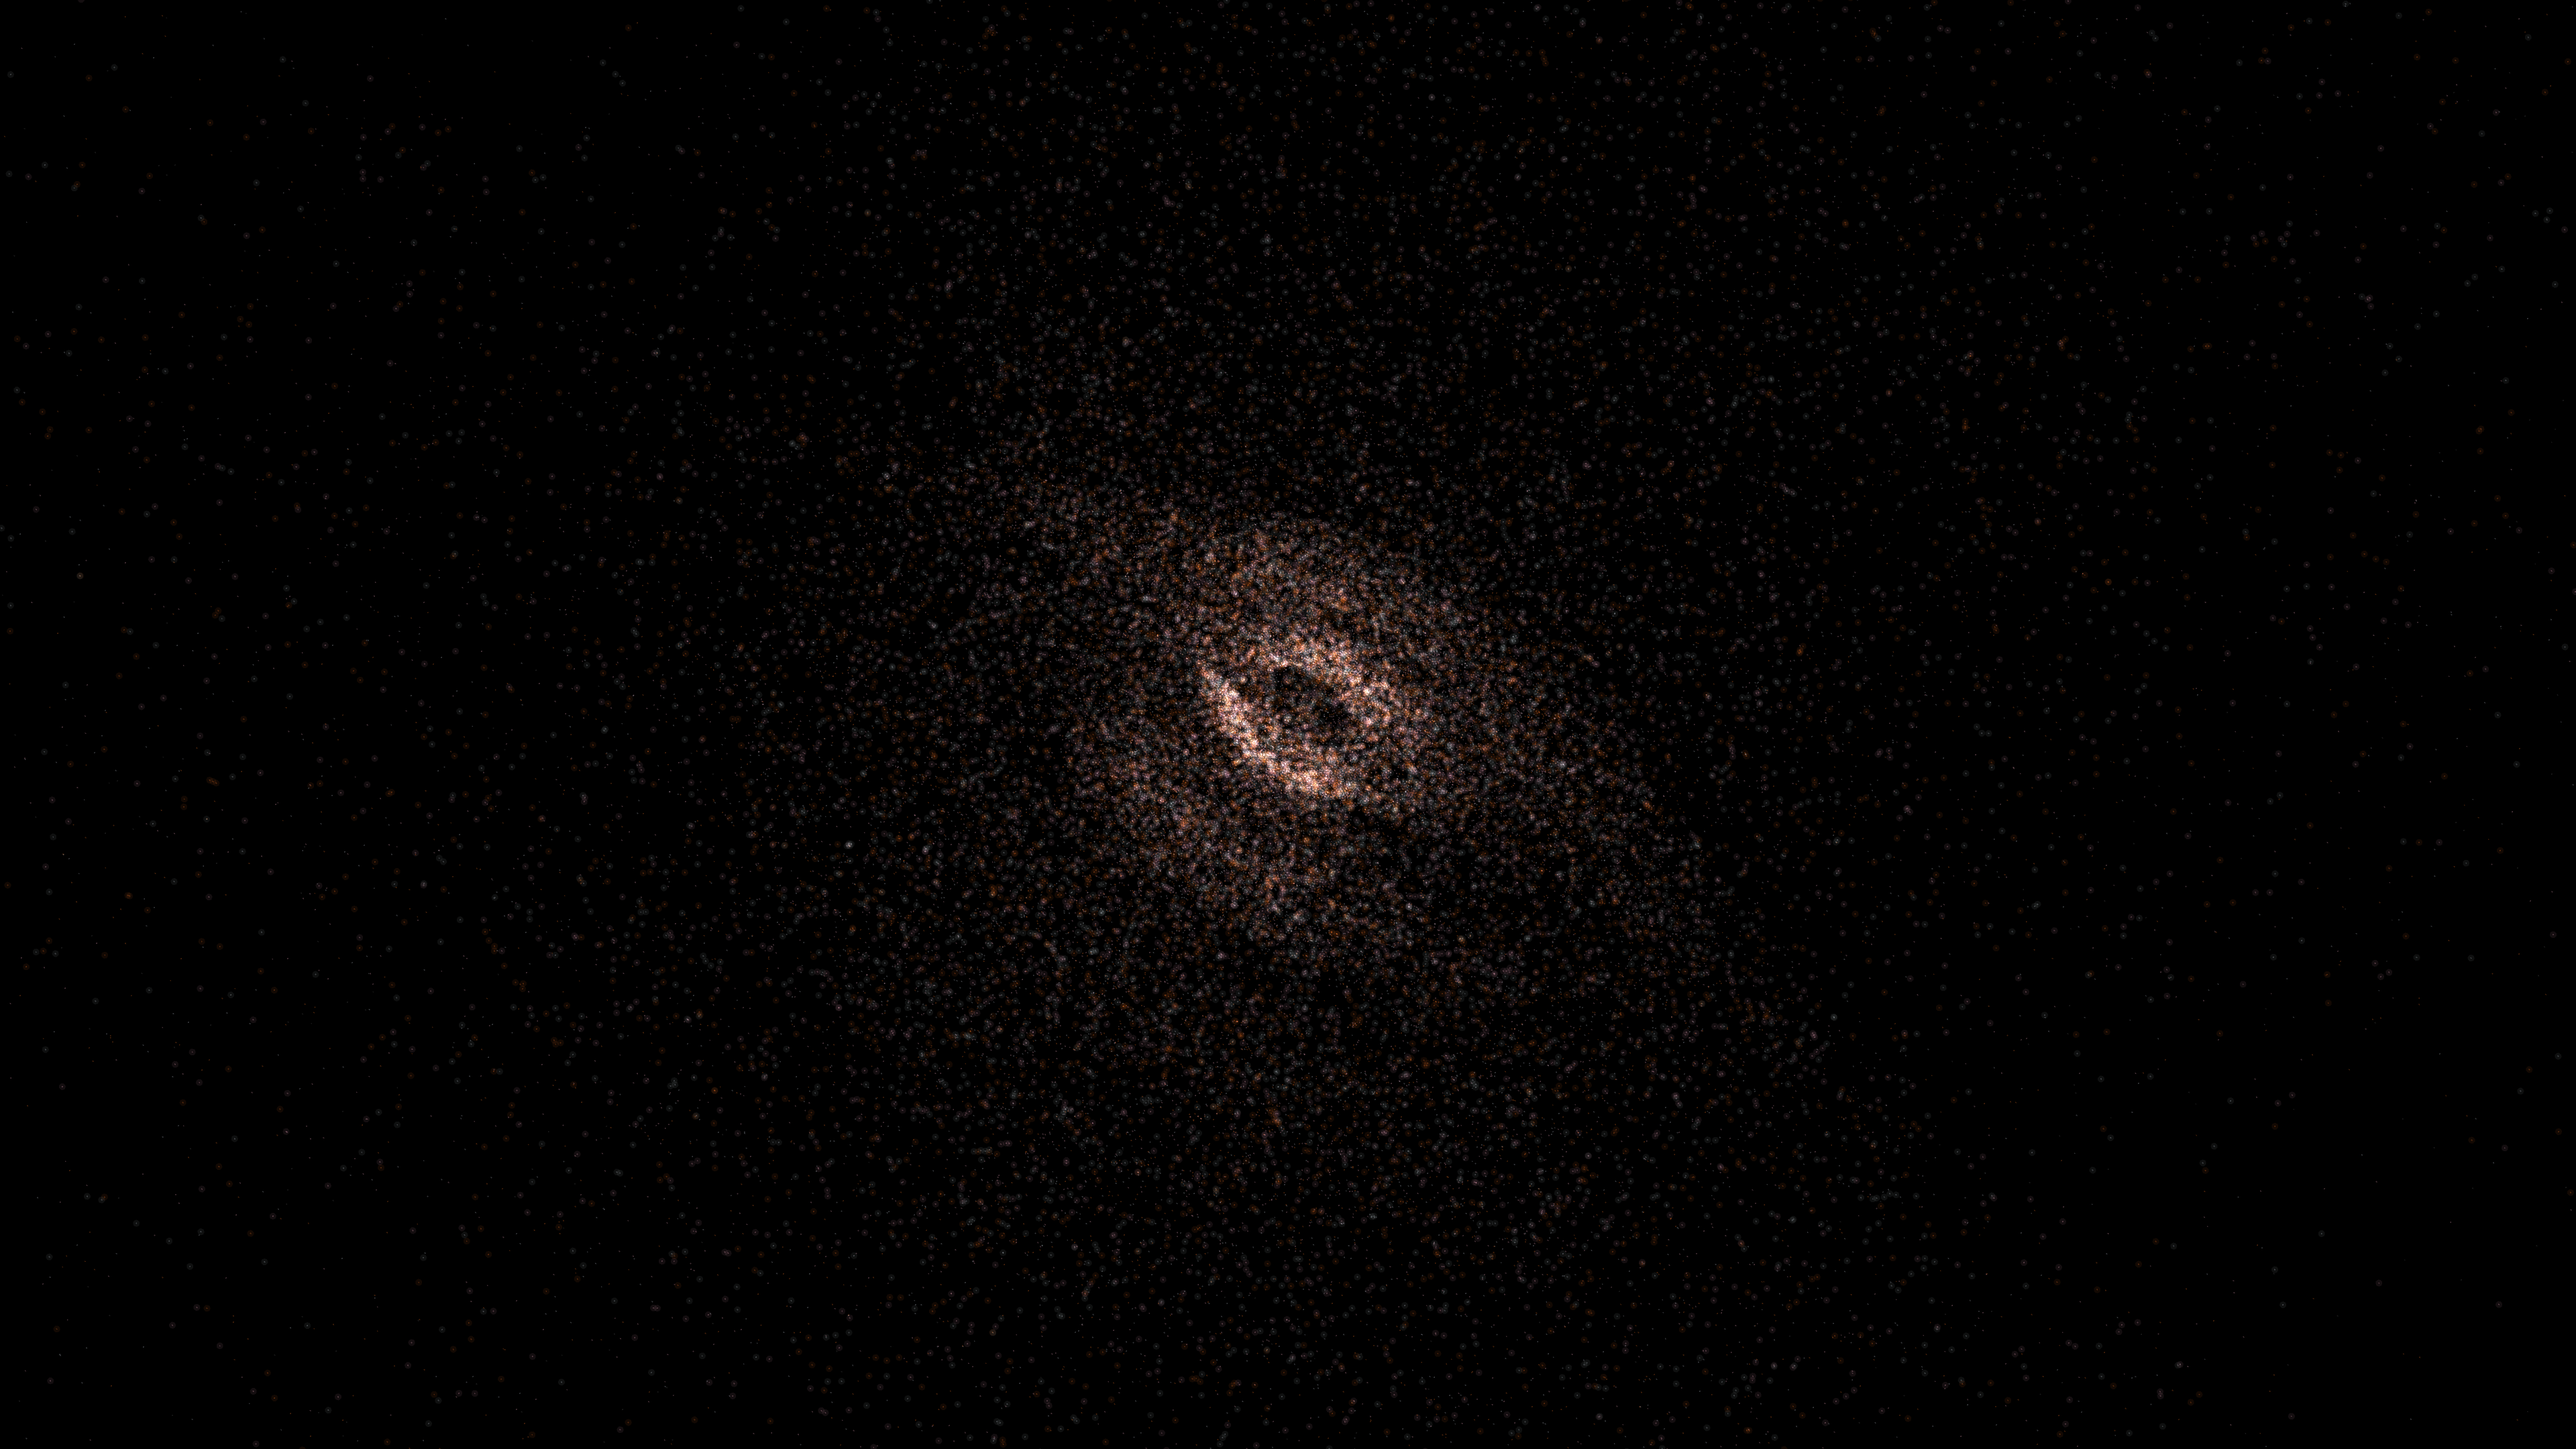
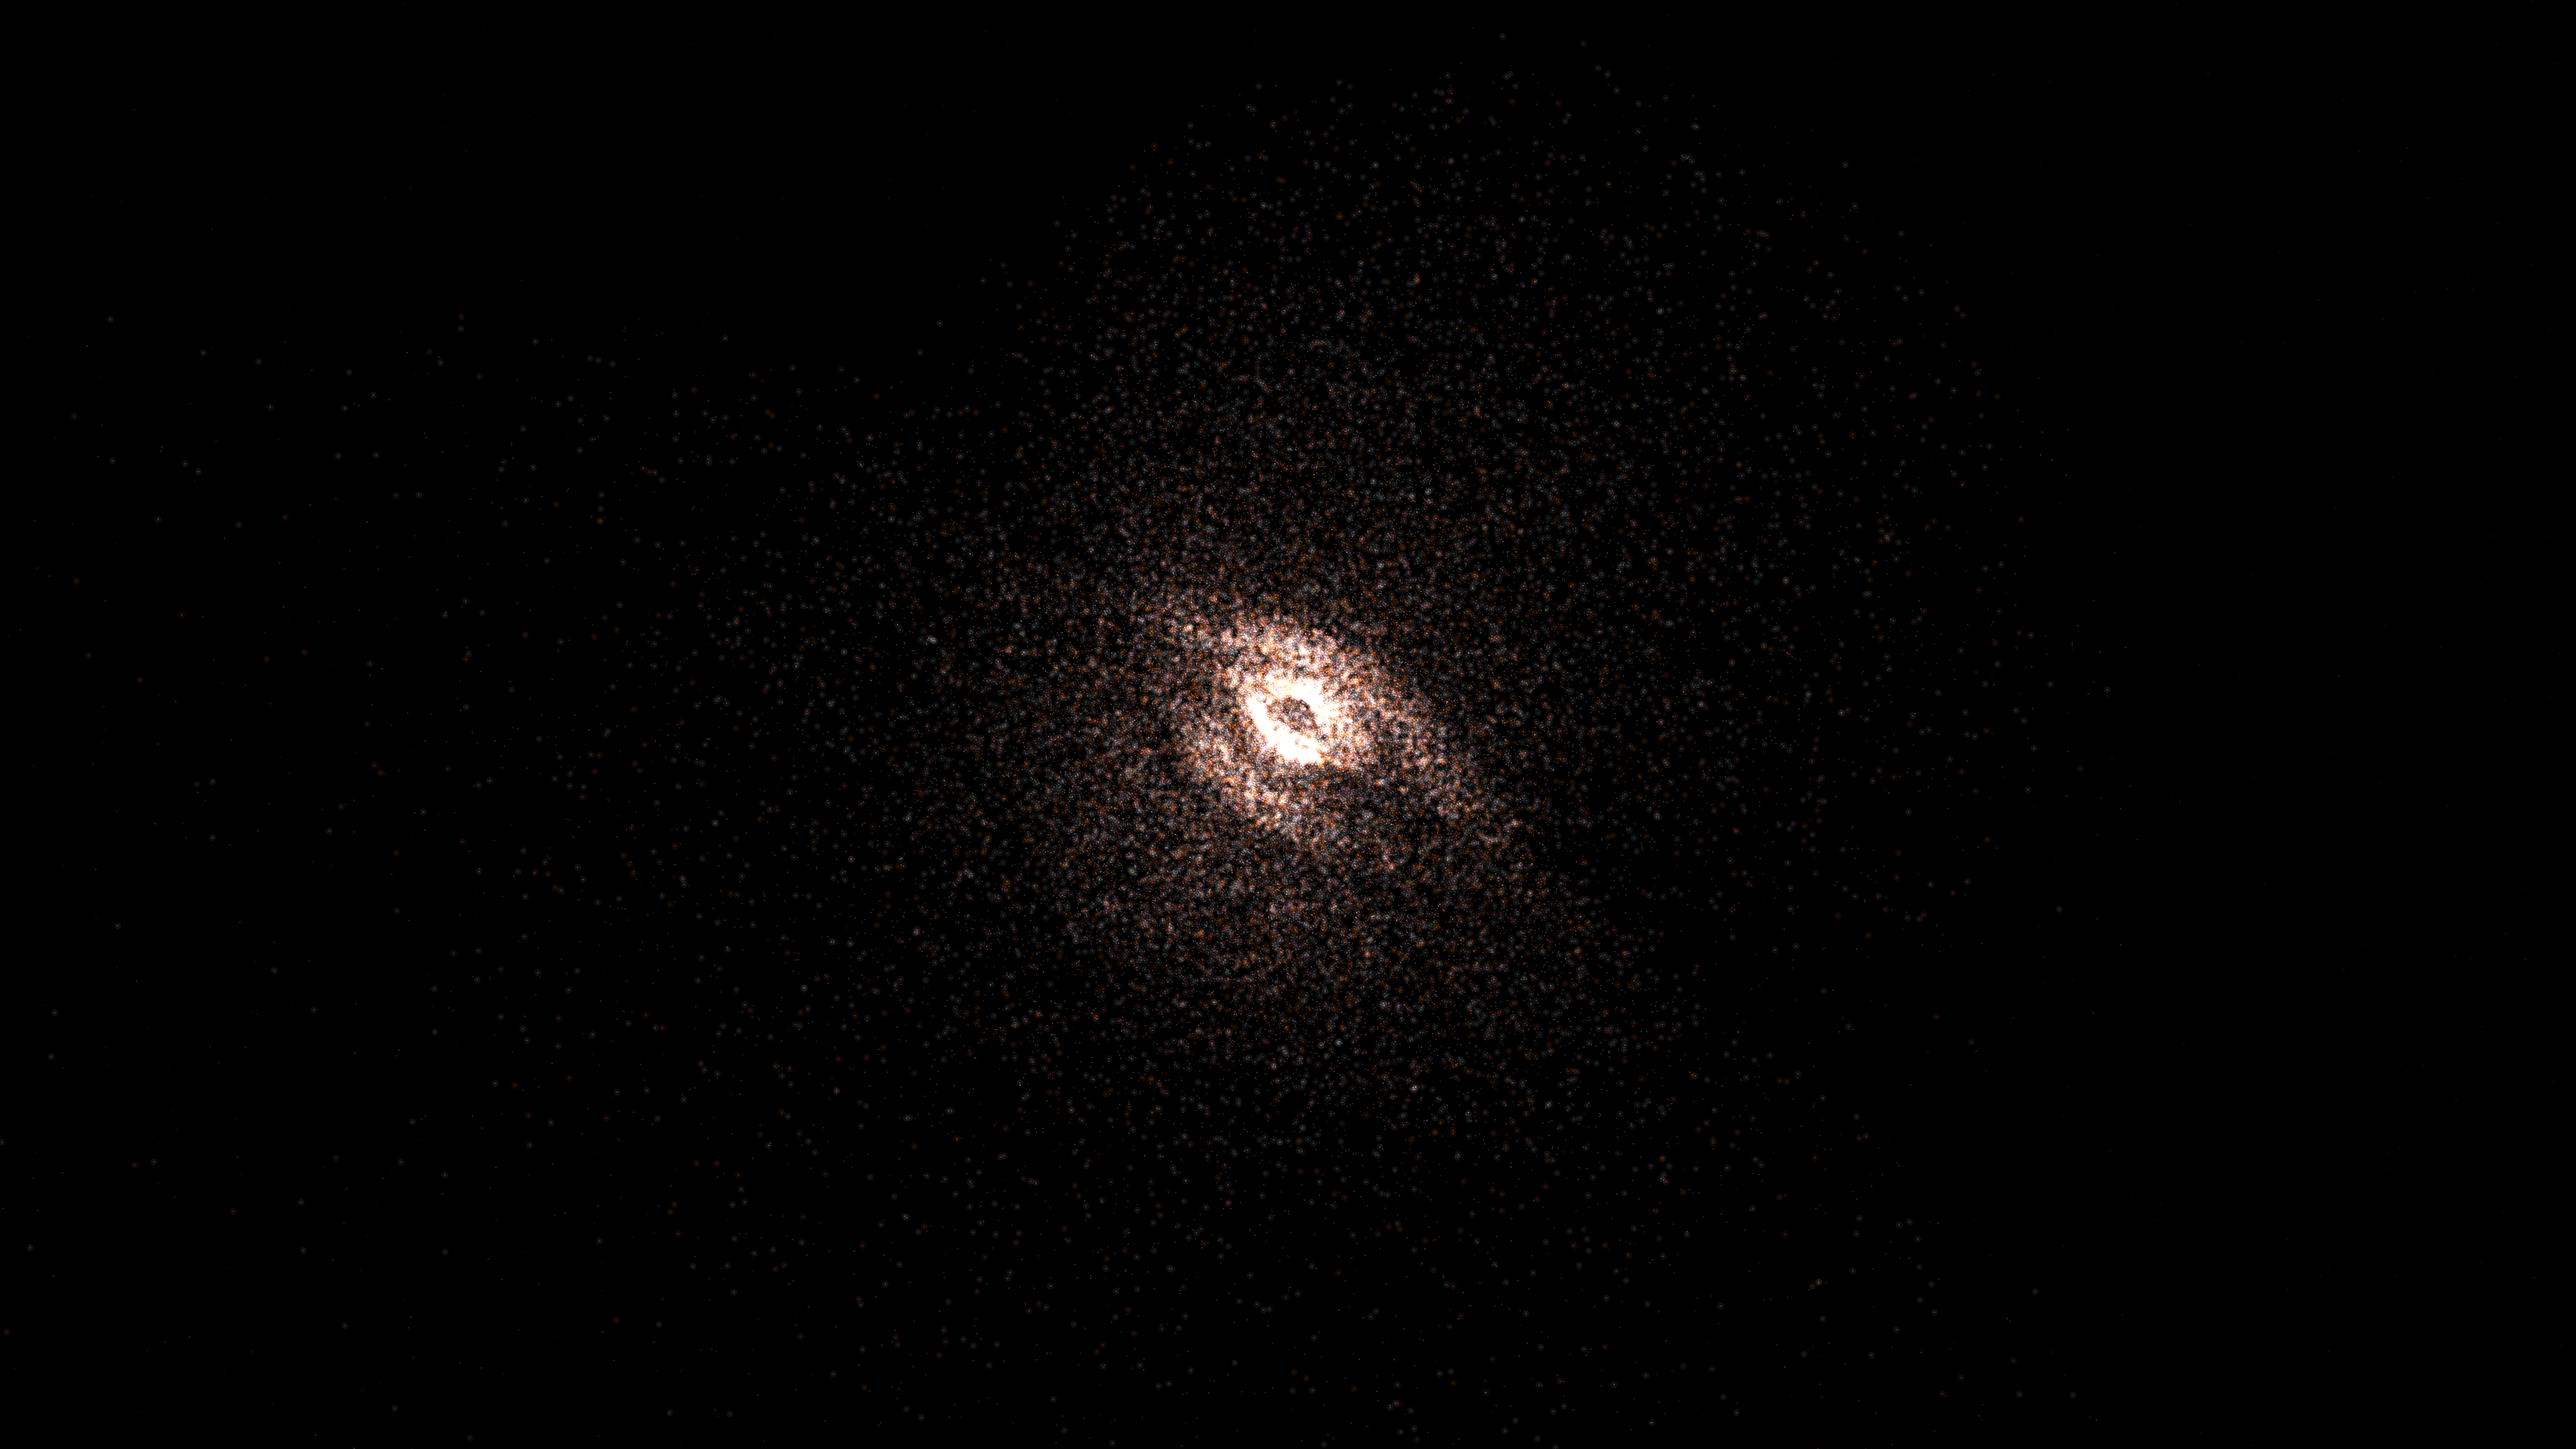
feat: upgrade asymptotic_giant_branch_pulsation to 4K resolution and render output

Changed region(s): [[0.3125, 0.1861, 0.6562, 0.8375]]

diff --git a/sketch/asymptotic_giant_branch_pulsation/main.py b/sketch/asymptotic_giant_branch_pulsation/main.py
@@ -18,7 +18,8 @@ DURATION_SEC = 20
 FPS = 60
 TOTAL_FRAMES = DURATION_SEC * FPS
 PREVIEW_FILENAME = f"{WORK_NAME}_p1.png"
-PREVIEW_SIZE, OUTPUT_SIZE, SIZE = get_sizes()
+PREVIEW_SIZE, OUTPUT_SIZE, _ = get_sizes()
+SIZE = OUTPUT_SIZE  # Force 4K resolution (3840x2160)
 
 # Simulation Parameters
 PARTICLE_COUNT = 150000
@@ -113,34 +114,36 @@ class AGBSystem:
             p_chunk = pts[m]
             alpha = np.mean(life_active[m]) * 150
             
-            # Subtle glow
+            # Subtle glow (adjusted stroke weights for 4K)
             py5.stroke(c[0], c[1], c[2], alpha * 0.3)
-            py5.stroke_weight(5)
+            py5.stroke_weight(10)
             py5.points(p_chunk[::3])
             
             py5.stroke(c[0], c[1], c[2], alpha)
-            py5.stroke_weight(1.0)
+            py5.stroke_weight(2.0)
             py5.points(p_chunk)
 
 sys_obj = None
 stars_pos = None
 
+import shutil
+
 def setup():
     global sys_obj, stars_pos
     py5.size(*SIZE, py5.P2D)
+    py5.pixel_density(1)  # Capping at 1x density prevents Retina-doubling lag on 4K renders
     py5.background(0)
     py5.blend_mode(py5.ADD)
     sys_obj = AGBSystem(py5.width, py5.height)
     stars_pos = np.random.uniform(0, [py5.width, py5.height], (500, 2)).astype(np.float32)
     if FRAMES_DIR.exists():
-        import shutil
         shutil.rmtree(FRAMES_DIR)
     FRAMES_DIR.mkdir(exist_ok=True)
 
 def draw():
     py5.background(0)
     py5.stroke(120, 50)
-    py5.stroke_weight(1)
+    py5.stroke_weight(2)  # Balanced for 4K
     py5.points(stars_pos)
 
     ry = py5.frame_count * 0.003
@@ -150,13 +153,29 @@ def draw():
     sys_obj.draw(ry, rz)
 
     py5.save_frame(str(FRAMES_DIR / "frame-####.png"))
+    
+    # Progress logs to prevent command timeouts
+    if py5.frame_count % 60 == 0:
+        print(f"[Render Progress] Frame {py5.frame_count}/{TOTAL_FRAMES} ({py5.frame_count/TOTAL_FRAMES*100:.1f}%)")
+
     if py5.frame_count >= TOTAL_FRAMES:
         py5.exit_sketch()
+        
+        print(f"[Render FFmpeg] Compiling {TOTAL_FRAMES} frames into 4K video...")
         subprocess.run(["ffmpeg", "-y", "-r", str(FPS), "-i", str(FRAMES_DIR / "frame-%04d.png"),
-                        "-vcodec", "libx264", "-pix_fmt", "yuv420p", "-crf", "26",
+                        "-vcodec", "libx264", "-pix_fmt", "yuv420p", "-crf", "22",
                         str(SKETCH_DIR / f"{WORK_NAME}.mp4")], check=True)
+        
+        # Mirror output
+        subprocess.run(["cp", str(SKETCH_DIR / f"{WORK_NAME}.mp4"), str(SKETCH_DIR / "output.mp4")], check=True)
+        
         mid = str(FRAMES_DIR / f"frame-{TOTAL_FRAMES // 2:04d}.png")
         subprocess.run(["cp", mid, str(SKETCH_DIR / PREVIEW_FILENAME)], check=True)
+        
+        # Clean up temporary frames
+        if FRAMES_DIR.exists():
+            shutil.rmtree(FRAMES_DIR)
+            print("[Render Cleanup] Temporary frames directory successfully removed.")
 
 if __name__ == "__main__":
     py5.run_sketch()
